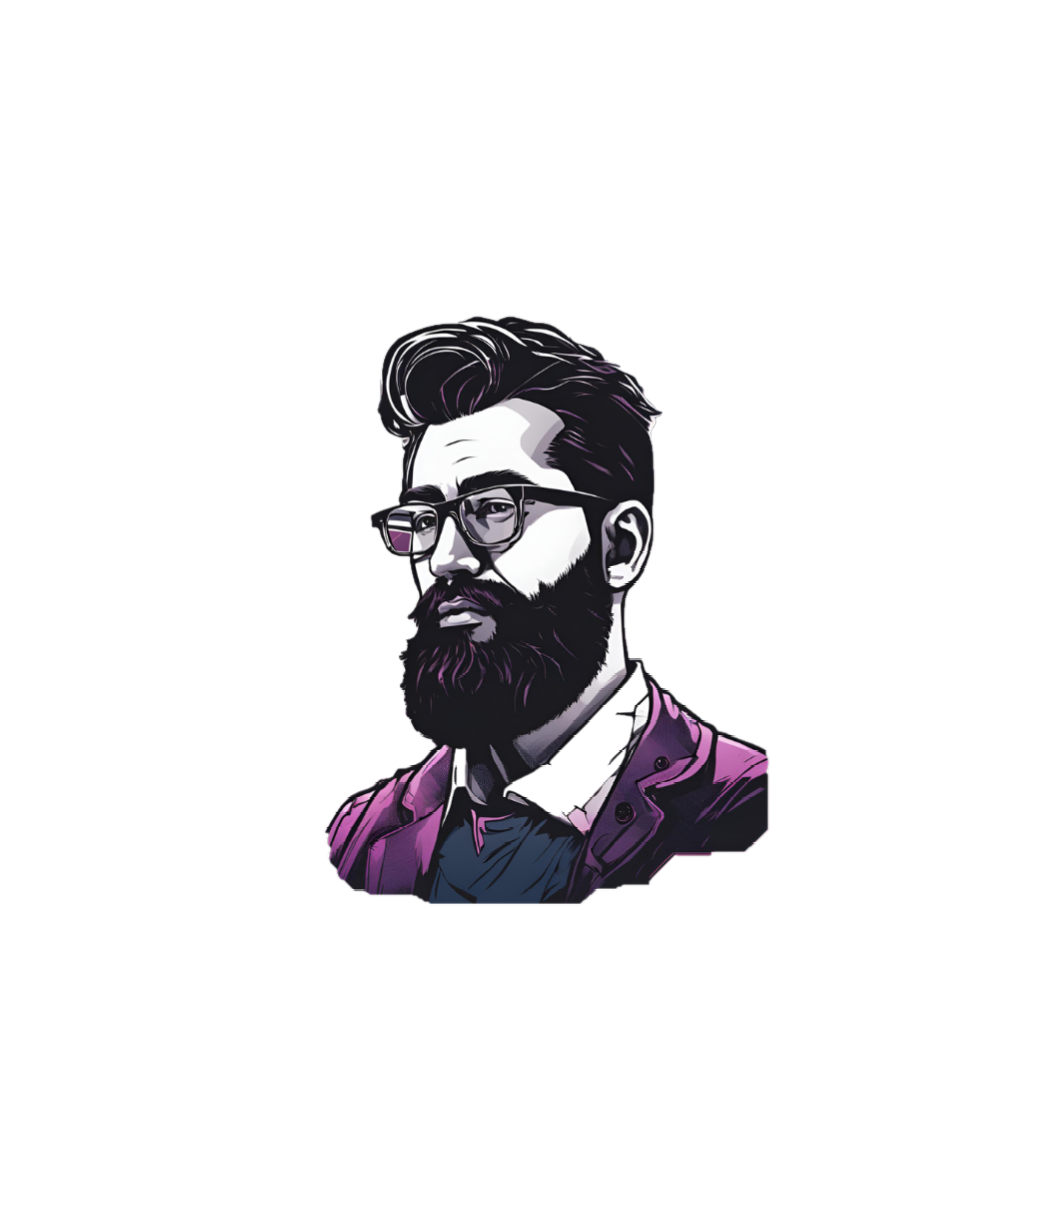
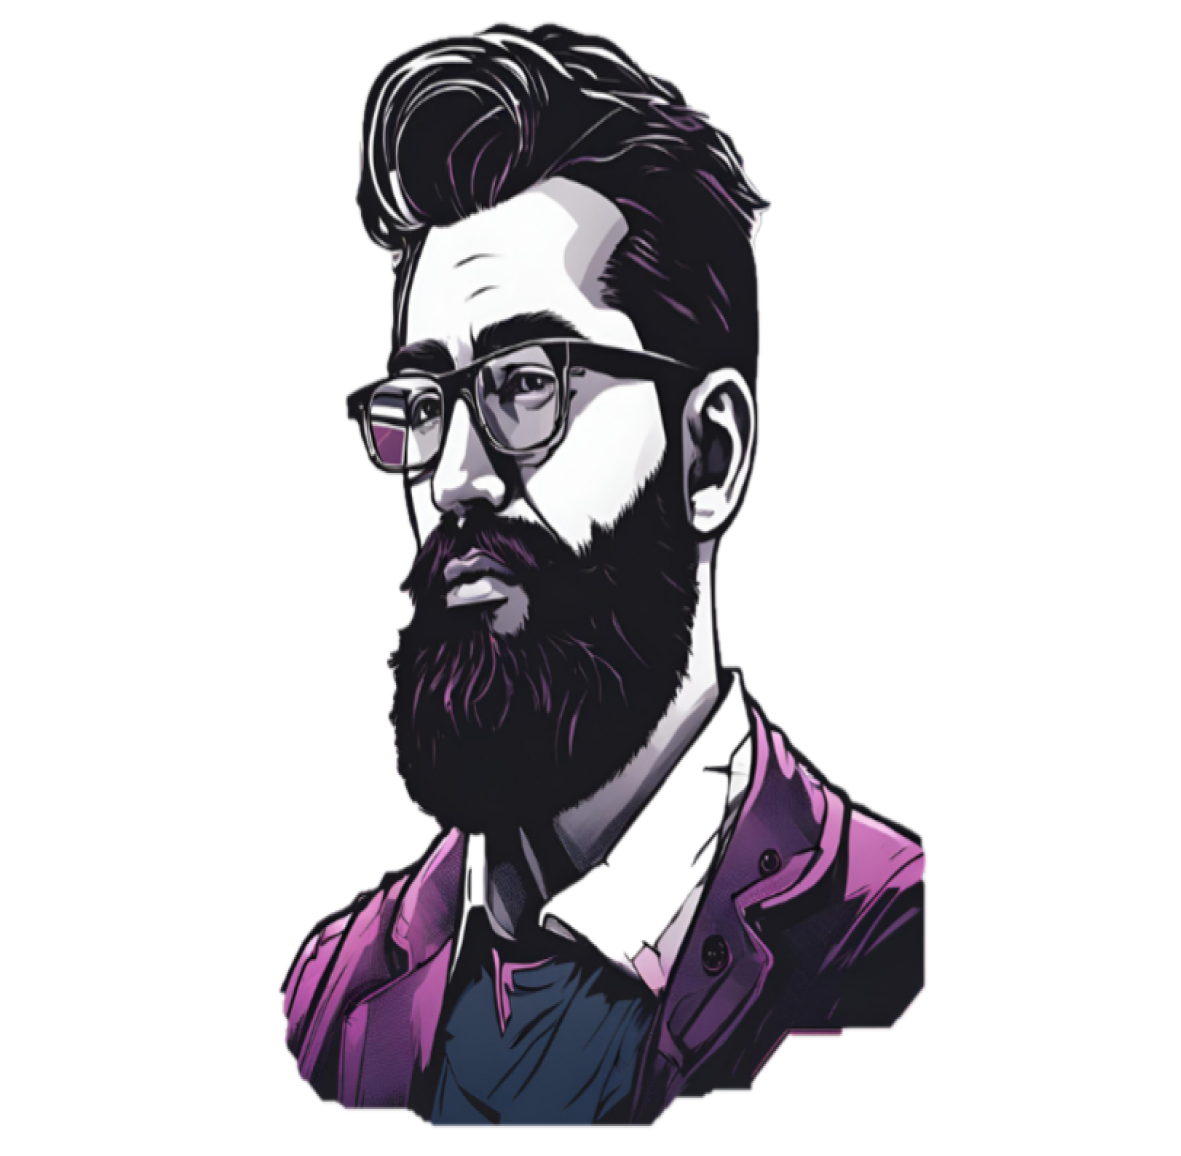
resize about-me image

Changed region(s): [[0.2179, 0.0, 0.8094, 0.9965]]

diff --git a/index.html b/index.html
@@ -517,7 +517,7 @@
                             <p>"Cristian transformed my ideas into a functional and visually stunning website. His creativity and problem-solving skills made the process smooth and enjoyable!"</p>
                             <div class="t-user">
                                 <div class="t-user-icon">
-                                    <img src="root/img/avatar-svg-com6.svg" title="" alt="">
+                                    <img src="root/img/avatar-svg-com6.svg" style="margin-bottom: 4rem" title="" alt="">
                                 </div>
                                 <div class="t-text">
                                     <h6>C. C.</h6>
